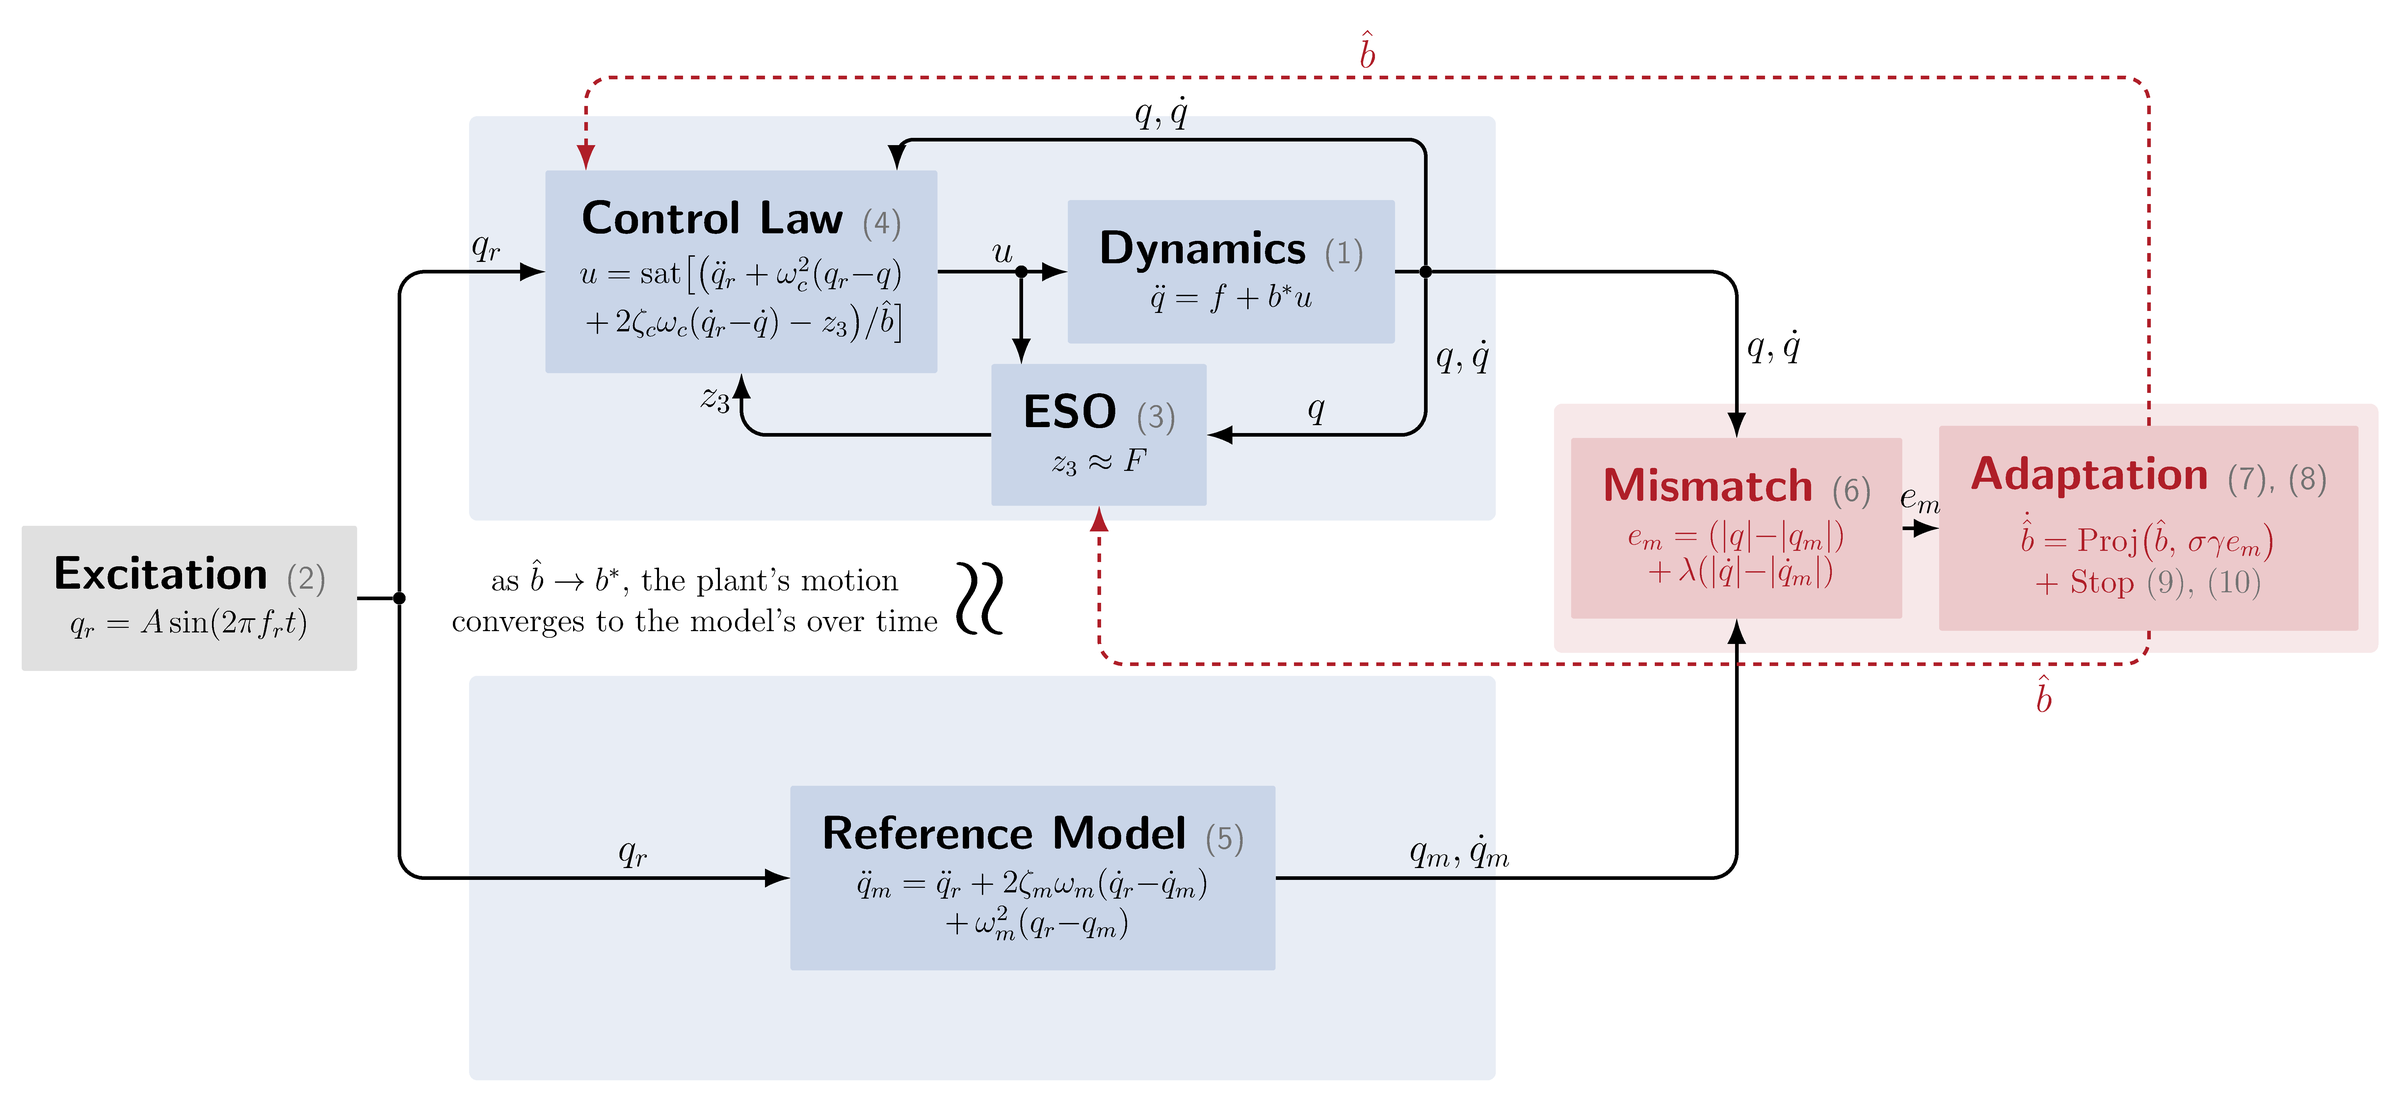
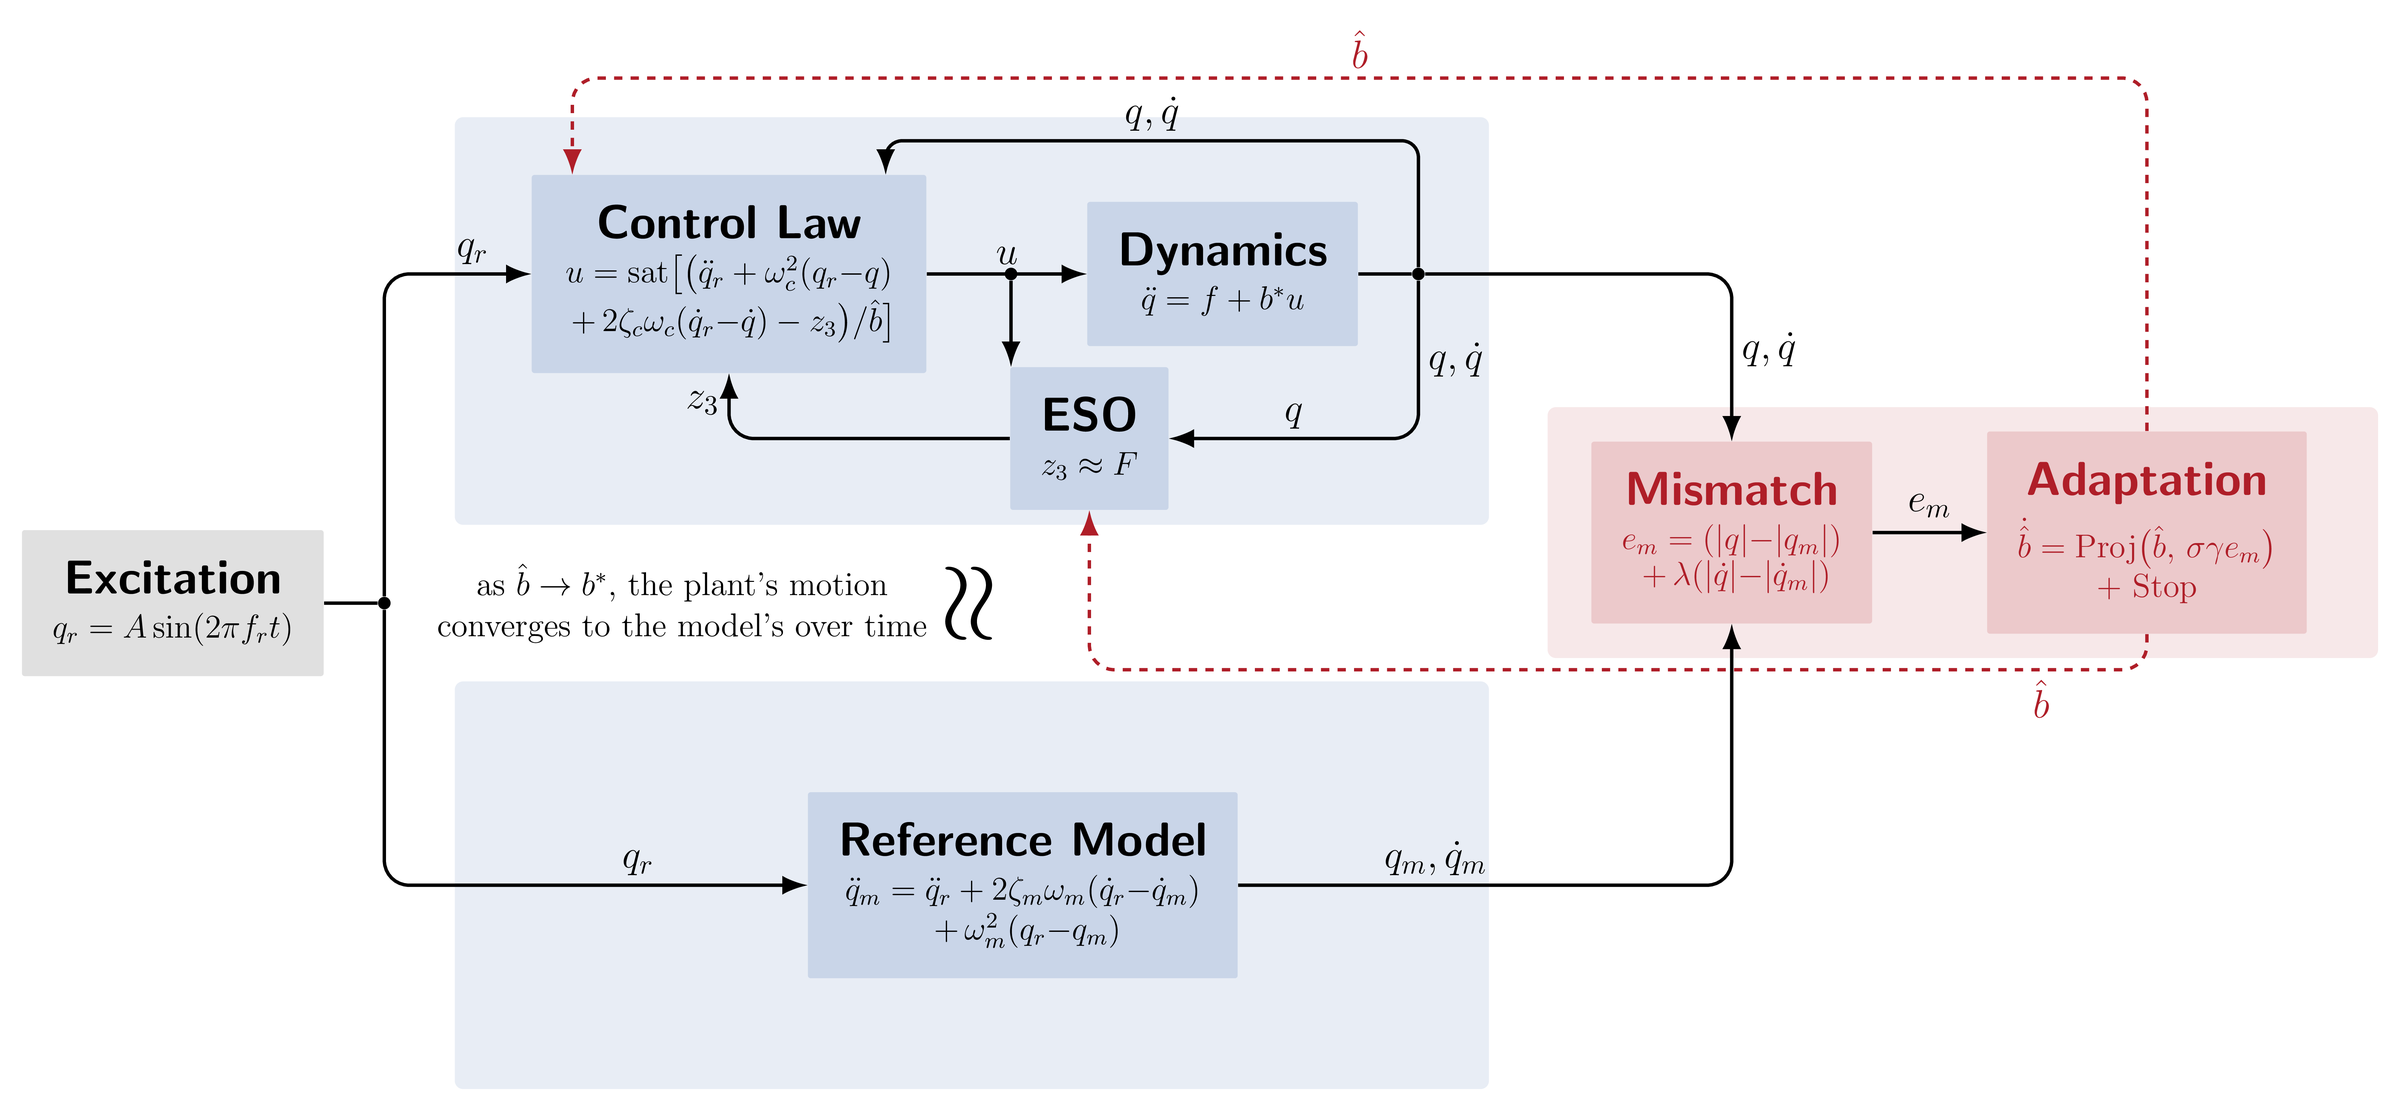
Block diagram without equation numbers for the page

diff --git a/index.html b/index.html
@@ -162,8 +162,7 @@
           <figcaption>MRA-ADRC architecture. The plant's motion from the ADRC loop (top) and the
             reference model's motion (bottom) meet at the mismatch, and the adaptation returns
             <i>b&#770;</i>, the only signal it feeds back, into the ADRC loop at two places (dashed
-            red). The parenthesized number in each block is the equation in the paper that defines
-            it.</figcaption>
+            red).</figcaption>
         </figure>
         <!--/ Method overview. -->
 
